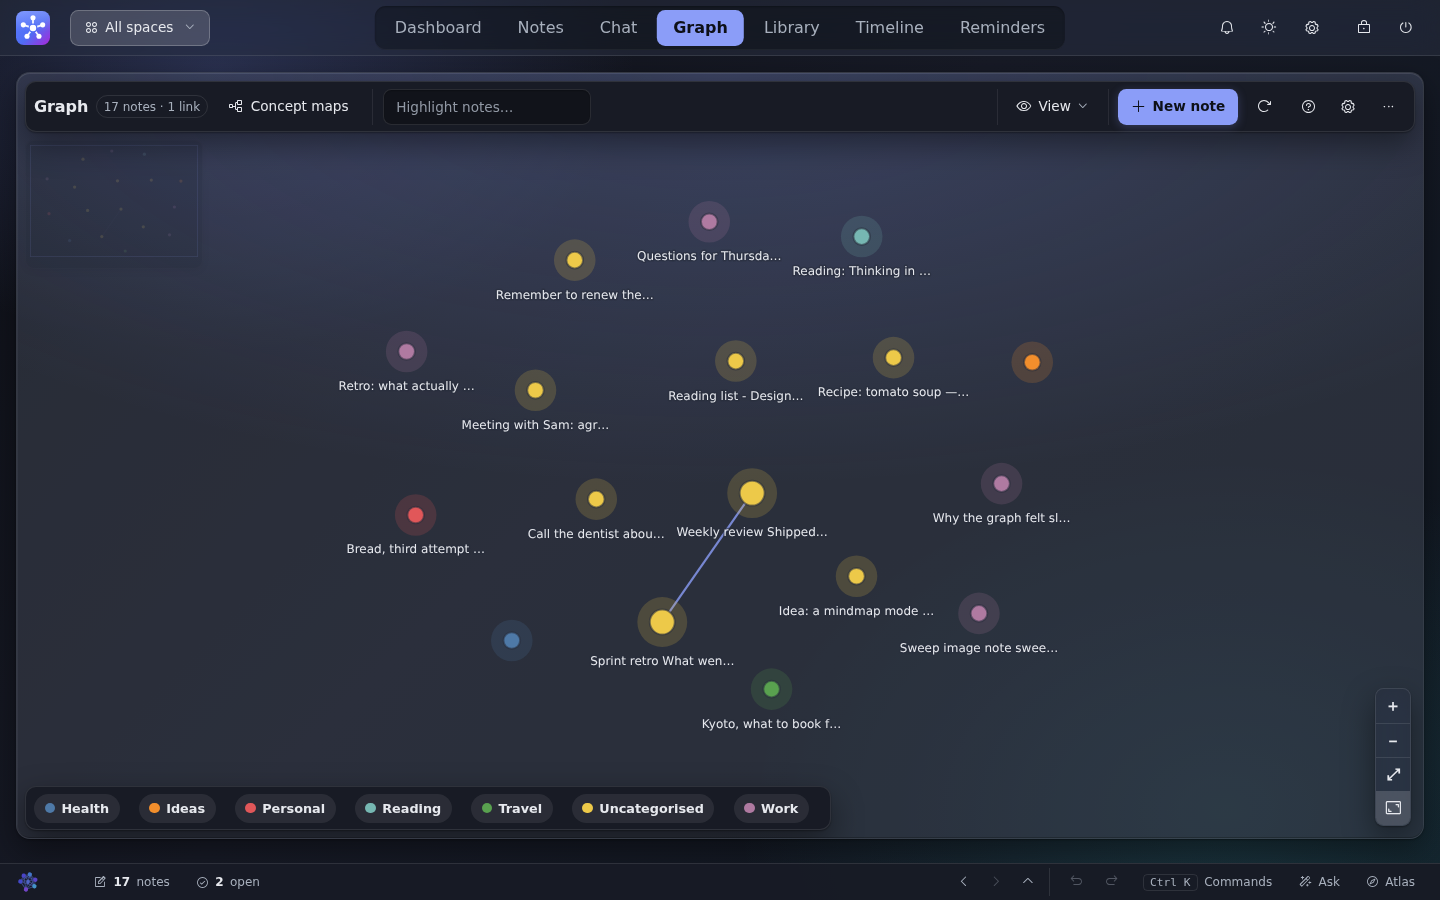
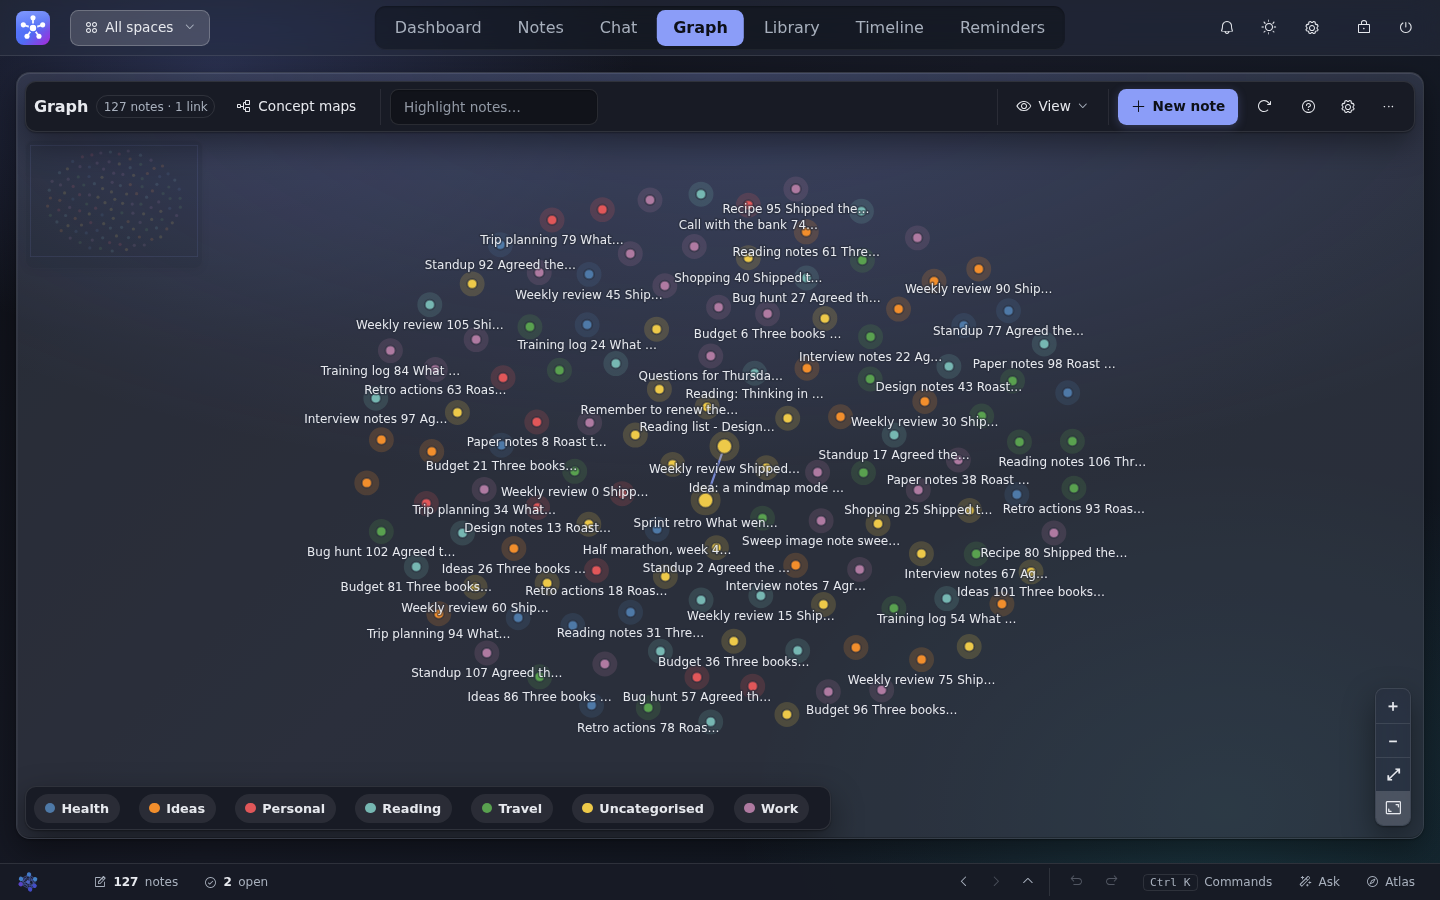
The guide-name test reads AI_NAME; the morning's reports filed (INBOX 228 to 241)
CI: test_help_chat expected the literal "Atlas" in GUIDE_NAME, which now
reads the one AI_NAME constant. Three closed INBOX items to HISTORY, the
aurora residue placed in BACKLOG 115.

Claude-Session: https://claude.ai/code/session_01TDrFtNMQzyhymKfCS5reYn

diff --git a/scratchpad/ui-sweeps/readmeshots.js b/scratchpad/ui-sweeps/readmeshots.js
@@ -104,7 +104,8 @@ const SHOTS = [
   await page.waitForTimeout(900);
 
   const done = [];
-  for (const shot of SHOTS) {
+  //: ONLY=graph retakes one file, for a re-seed that only that shot needs.
+  for (const shot of SHOTS.filter((s) => !process.env.ONLY || s.file === process.env.ONLY)) {
     await page.click(`[data-tab="${shot.tab}"]`).catch(() => {});
     await page.waitForTimeout(2500);
     if (shot.sub === 'board') {

diff --git a/tests/test_help_chat.py b/tests/test_help_chat.py
@@ -262,7 +262,11 @@ def test_the_guide_is_named_once_and_the_interface_agrees(ai_client, fake_ollama
     index = (frontend / "index.html").read_text(encoding="utf-8")
 
     assert help_chat.GUIDE_NAME == "Atlas"
-    assert f'const GUIDE_NAME = "{help_chat.GUIDE_NAME}"' in settings_js
+    #: Spelt once on each side (INBOX 225): the frontend's `AI_NAME` is the
+    #: word, and `GUIDE_NAME` reads it, so the guide and the librarian can
+    #: never drift apart by one edit.
+    assert f'const AI_NAME = "{help_chat.GUIDE_NAME}"' in settings_js
+    assert "const GUIDE_NAME = AI_NAME" in settings_js
     #: The sheet's own title comes from that constant rather than a literal.
     assert "label: GUIDE_NAME," in settings_js
     #: And the one surface that is markup says the same word.

diff --git a/docs/roadmap/INBOX.md b/docs/roadmap/INBOX.md
@@ -34,6 +34,93 @@ with its owner named in the entry.
 
 ## Open items
 
+241. **Mid-work drop, 2026-09-14, verbatim (the owner), Ask persistence.**
+    "the grounding, intext numbered referencing, and sources that appeared
+    in the ask subtab in notes, dissappeared on reload and didnt persist.
+    they didnt persist when I reaccessed them through the history panel."
+    Owner: notes agent.
+
+240. **Mid-work drop, 2026-09-14, verbatim (the owner), Write with AI
+    boxes.** "when I clicked on the 'your thoughts' text box in the write
+    with ai notes subtab, the box instantly shortened in height from what
+    it was. same with the 'the draft' textbox as well." Owner: notes agent.
+
+239. **Mid-work drop, 2026-09-14, verbatim (the owner), the table full
+    view.** "I opened up the table full view but there was no way to close
+    it so I had to hard refresh the app." Owner: notes agent (documents).
+
+238. **Mid-work drop, 2026-09-14, verbatim (the owner), board and map
+    notes.** "when I expand the size of notes in the whiteboard and mindmap,
+    the text goes out of the panel border, the state of note objects in the
+    whiteboard and mindmap for if they are expanded or not should be
+    persistant, and when exporting a whiteboard and/or mindmap, the user
+    should be warned if any of their notes arent expanded and that not all
+    their contents will be shown, the export shouldnt include things like
+    the show less/more text as well." Owner: notes agent (whiteboard.js).
+
+237. **Mid-work drop, 2026-09-14, verbatim (the owner), the librarian
+    persona.** "the librarian persona hasnt been adjusted to be atlas acting
+    as the librarian." The built-in persona card reads "Librarian, built-in,
+    You are the librarian of the user's personal notebook." Target: the
+    built-in is named Atlas with the one clause from 225, in both the
+    backend's built-in list and `frontend/app.js`'s mirror of it. Owner:
+    chrome2.
+
+236. **Mid-work drop, 2026-09-14, verbatim (the owner), the chat empty
+    state's '?'.** "the about this chat '?' tooltip button in the chat empty
+    interface, and it shouldnt be there, its right in the middle of
+    everything, move it somewhere else like in a corner or smth." Owner:
+    chrome2.
+
+235. **Mid-work drop, 2026-09-14, verbatim (the owner), Settings.** "I feel
+    like the advanced response settings should be above the installed models
+    tab, and/or in the preferences settings page with the advanced search."
+    Decision: the group moves above Installed models on the Models page.
+    And: "in the help settings page, there is no gap between the atlas
+    section and the faq dropdowns." Owner: chrome2.
+
+234. **Mid-work drop, 2026-09-14, verbatim (the owner), Atlas badges.**
+    "the web search and skills hyperlinked badges in the atlas interface
+    dont work" (Chat works). Those two carry `data-goto-section` without
+    `data-goto-tab`, and the document handler only matches the tab
+    attribute. Owner: chrome2, first.
+
+233. **Mid-work drop, 2026-09-14, verbatim (the owner), the documents
+    kebab.** "the documents kebab button in the top right corner goes off the
+    bottom of my screen." The menu needs a max height inside the viewport
+    with its own scroll, or to open upward when there is no room below.
+    Owner: chrome2 (the menu recipe).
+
+232. **Mid-work drop, 2026-09-14, verbatim (the owner), the live view.**
+    "the md rendering on the live view, like in the documents page, needs to
+    be improved, especially for codeblocks and potentially for other things
+    as well." Screenshot: a fenced block renders as a dark slab with the
+    fence lines as empty numbered rows above and below, link chips wrap
+    oddly. Owner: notes agent (documents.js).
+
+231. **Mid-work drop, 2026-09-14, verbatim (the owner), the popup agent's
+    starters.** "these suggested questions in the popup agent are really ugly
+    and that area needs a better modern and more professional redesign."
+    Screenshot: bordered pill buttons in a two-column grid under uppercase
+    ruled headers. Target: quiet rows with no border at rest, an icon in
+    muted accent, a fill on hover only, group labels small without rules,
+    one column below 480px. Owner: chrome2.
+
+230. **Mid-work drop, 2026-09-14, verbatim (the owner), the popup agent's
+    kebab.** "this more actions kebab button at the bottom of the popup agent
+    doesnt show any dropdown menu." Measured (`scratchpad/palkebab.js`): the
+    menu opens (2 items, 200x87 at 795,753) at z-index 1020 under the
+    palette overlay at 2000, so it draws behind the panel. Owner: chrome2.
+
+229. **Mid-work drop, 2026-09-14, verbatim (the owner), the graph
+    screenshot.** "redo the graph readme screenshot and make it really
+    impressive." Owner: orchestrator.
+
+228. **Mid-work drop, 2026-09-14, verbatim (the owner), the close.** "after
+    you have finished all these, done the final bug sweep, make sure
+    everything is finished for the pr, and finish the pr, merging it into
+    main." Owner: orchestrator, last.
+
 226. **Mid-work drop, 2026-09-14 morning, verbatim (the owner), a flicker.**
     "theres a flickering just above the bottom bar??" / "i was on the
     dashboard". Reproduce first: sample the band above `#status-bar` on the
@@ -108,18 +195,6 @@ with its owner named in the entry.
     WORLD_CLASS_PLAN 18 written. Left: the ROADMAP rewrite and the
     HANDOVER "how to proceed" block, after the four agents merge.
 
-219. **Mid-work drop, 2026-09-14 morning, verbatim (the owner), the
-    README and the PR.** "can you update the screenshots in the readme and
-    also update the readme itself?? make sure it is proper professional and
-    not ai slop. make it impressive, and make sure the screenshot choices are
-    actually intentional... like the ocr workspace could be one?? and update
-    the pr title and description." And: "make sure to update and refine the
-    world class plan, extend it and make it revolutionary." Screenshots
-    captured from the running app in both themes with seeded data (the OCR
-    workspace, the mind map, the graph, the documents editor, the popup
-    agent); README rewritten in plain prose; PR 144's title and body
-    rewritten from the CHANGELOG. Owner: orchestrator, after the merges.
-
 213. **Mid-work drop, 2026-09-14 morning, verbatim (the owner), the last
     scan.** "finish all the agents, scan for bugs and high complexity one
     last time, and let me know when the pr is ready to merge / make sure to
@@ -127,51 +202,6 @@ with its owner named in the entry.
     And: "once absolutely everything is done and the roadmap documents are
     cleaned etc, all the agent branches are merged into this one etc, merge
     this pr for me." Owner: orchestrator; the merge is the last act.
-
-210. **Mid-work drop, 2026-09-13 night, verbatim (the owner), the
-    background art.** "oh! can you fix the aurora flowing ribbons
-    animation?? it needs refining and fixing, the trails never end and the
-    trails get reset by the rotating middle graphic. I like the waves graphic
-    and the constelations one isnt bad either but the others could do with
-    some improvements." The styles live in `frontend/settings.js`
-    (`startBgArt`, one `style.frame(t)` per name) and the dashboard's copy in
-    `dashboard.js`. Aurora: the translucent wash never clears a trail fully
-    (the alpha floor leaves a residue), and the emblem's redraw clears a
-    rectangle through it. Fix: a fade that reaches the ground within N
-    frames (measure the pixel after the ribbon has passed with
-    `pngpixel.py`), and the emblem drawn on its own canvas layer above the
-    art rather than clearing into it. Then a pass over each style but waves
-    and constellations. And: "also with animation movement, I might want the
-    ai generating animations and all the little small ones, but just not the
-    background to move." A "Background moves" switch of its own beside the
-    style picker, separate from Reduce motion: off draws one frame and stops
-    the loop; everything else keeps its motion. Owner: orchestrator, then an
-    agent.
-    **Aurora: fixed. The switch: it exists.** The ring is drawn on its own
-    layer and composited each frame, so it no longer stamps itself into the
-    trail buffer; the stronger sixth-frame wash that made a mark reach the
-    ground in a second was **reverted the same hour**: at 30 frames a second
-    it pulsed five times a second ("there's a flashing", "the flashing is
-    everywhere"). The residue is arithmetic (a 10% blend cannot move a pixel
-    that is within three levels of the ground), so the fix has to be a
-    different technique, not a stronger wash: the trails on their own
-    layer, cleared and redrawn from a short history of positions, which
-    ends a trail by construction. Open, for the agent. The
-    background's own movement is Settings, Appearance, Background,
-    Movement: Still, separate from Reduce motion; "everything else moves"
-    is what that choice already does. Left open: the pass over bubbles and
-    mesh (waves and constellations are liked as they are).
-
-209. **Mid-work drop, 2026-09-13 night, verbatim (the owner), the whole
-    application.** "ok fable, I want to make the most of you now, I need you
-    to poke holes in this application, find weakness, find poor backend
-    design, find high complexity, find bugs we have missed, maximise speed,
-    security, improve the agent harness and ensure it is the best it can be
-    for all local model sizes. polish the app and fix usability issues, fill
-    missing gaps." Taken as the orchestrator's own audit, recorded in
-    WORLD_CLASS_PLAN.md under "Audit, 2026-09-13 night" with a finding per
-    row (evidence, cost, fix, who), the cheap and safe fixes made in the
-    same pass, the rest briefed to agents. Owner: orchestrator.
 
 ## Placed (last 20, newest first)
 

diff --git a/docs/roadmap/HISTORY.md b/docs/roadmap/HISTORY.md
@@ -27380,6 +27380,64 @@ line that carried a dash.
     Library. `docs` is declared in documents.js, which is in the Library's lazy
     bundle, and `paletteMatches` read it unguarded.
 
+219. **Mid-work drop, 2026-09-14 morning, verbatim (the owner), the
+    README and the PR.** "can you update the screenshots in the readme and
+    also update the readme itself?? make sure it is proper professional and
+    not ai slop. make it impressive, and make sure the screenshot choices are
+    actually intentional... like the ocr workspace could be one?? and update
+    the pr title and description." And: "make sure to update and refine the
+    world class plan, extend it and make it revolutionary." Screenshots
+    captured from the running app in both themes with seeded data (the OCR
+    workspace, the mind map, the graph, the documents editor, the popup
+    agent); README rewritten in plain prose; PR 144's title and body
+    rewritten from the CHANGELOG. Owner: orchestrator, after the merges.
+    **Done, 2026-09-14:** README rewritten with fourteen retaken screenshots (the OCR workspace among them); PR 144 title and body rewritten; WORLD_CLASS_PLAN 18 written.
+210. **Mid-work drop, 2026-09-13 night, verbatim (the owner), the
+    background art.** "oh! can you fix the aurora flowing ribbons
+    animation?? it needs refining and fixing, the trails never end and the
+    trails get reset by the rotating middle graphic. I like the waves graphic
+    and the constelations one isnt bad either but the others could do with
+    some improvements." The styles live in `frontend/settings.js`
+    (`startBgArt`, one `style.frame(t)` per name) and the dashboard's copy in
+    `dashboard.js`. Aurora: the translucent wash never clears a trail fully
+    (the alpha floor leaves a residue), and the emblem's redraw clears a
+    rectangle through it. Fix: a fade that reaches the ground within N
+    frames (measure the pixel after the ribbon has passed with
+    `pngpixel.py`), and the emblem drawn on its own canvas layer above the
+    art rather than clearing into it. Then a pass over each style but waves
+    and constellations. And: "also with animation movement, I might want the
+    ai generating animations and all the little small ones, but just not the
+    background to move." A "Background moves" switch of its own beside the
+    style picker, separate from Reduce motion: off draws one frame and stops
+    the loop; everything else keeps its motion. Owner: orchestrator, then an
+    agent.
+    **Aurora: fixed. The switch: it exists.** The ring is drawn on its own
+    layer and composited each frame, so it no longer stamps itself into the
+    trail buffer; the stronger sixth-frame wash that made a mark reach the
+    ground in a second was **reverted the same hour**: at 30 frames a second
+    it pulsed five times a second ("there's a flashing", "the flashing is
+    everywhere"). The residue is arithmetic (a 10% blend cannot move a pixel
+    that is within three levels of the ground), so the fix has to be a
+    different technique, not a stronger wash: the trails on their own
+    layer, cleared and redrawn from a short history of positions, which
+    ends a trail by construction. Open, for the agent. The
+    background's own movement is Settings, Appearance, Background,
+    Movement: Still, separate from Reduce motion; "everything else moves"
+    is what that choice already does. Left open: the pass over bubbles and
+    mesh (waves and constellations are liked as they are).
+    **Placed, 2026-09-14:** BACKLOG 115 row 13 holds the residue and the bubbles and mesh pass.
+209. **Mid-work drop, 2026-09-13 night, verbatim (the owner), the whole
+    application.** "ok fable, I want to make the most of you now, I need you
+    to poke holes in this application, find weakness, find poor backend
+    design, find high complexity, find bugs we have missed, maximise speed,
+    security, improve the agent harness and ensure it is the best it can be
+    for all local model sizes. polish the app and fix usability issues, fill
+    missing gaps." Taken as the orchestrator's own audit, recorded in
+    WORLD_CLASS_PLAN.md under "Audit, 2026-09-13 night" with a finding per
+    row (evidence, cost, fix, who), the cheap and safe fixes made in the
+    same pass, the rest briefed to agents. Owner: orchestrator.
+    **Done, 2026-09-14:** the audit is WORLD_CLASS_PLAN "Audit, 2026-09-13 night", rows A1 to A9 all landed in this PR.
+
 ## ROADMAP archive, 2026-09-14 (moved whole from ROADMAP.md)
 
 The entry-point file was rewritten at the close of PR 144; these sections are its previous body, verbatim, so every section number and every "decided against" still resolves. Open items from them live in the plans, `agent-remaining/OPEN.md` and BACKLOG.

diff --git a/docs/roadmap/BACKLOG.md b/docs/roadmap/BACKLOG.md
@@ -4171,6 +4171,7 @@ a session or less and names its gate.
 | 10 | Encrypted export and import of the whole notebook (one file, one password) | export, wipe, import, diff equals zero in a test |
 | 11 | The activity log as an audit trail a professional can hand over (who, what, when, export CSV) | every event kind exported with its fields |
 | 12 | Startup and boot under the speed budget on a five-year-old laptop | `boottime.js` numbers in the CHANGELOG per step |
+| 13 | The aurora background's residue (INBOX 210): trails on their own layer redrawn from a short position history, then a pass over the bubbles and mesh styles | `pngpixel.py` reads the ground colour where a ribbon passed two seconds earlier |
 
 Rows 1, 2, 7 and 10 are the ones people ask about before they trust a
 notebook with work; do those first.
